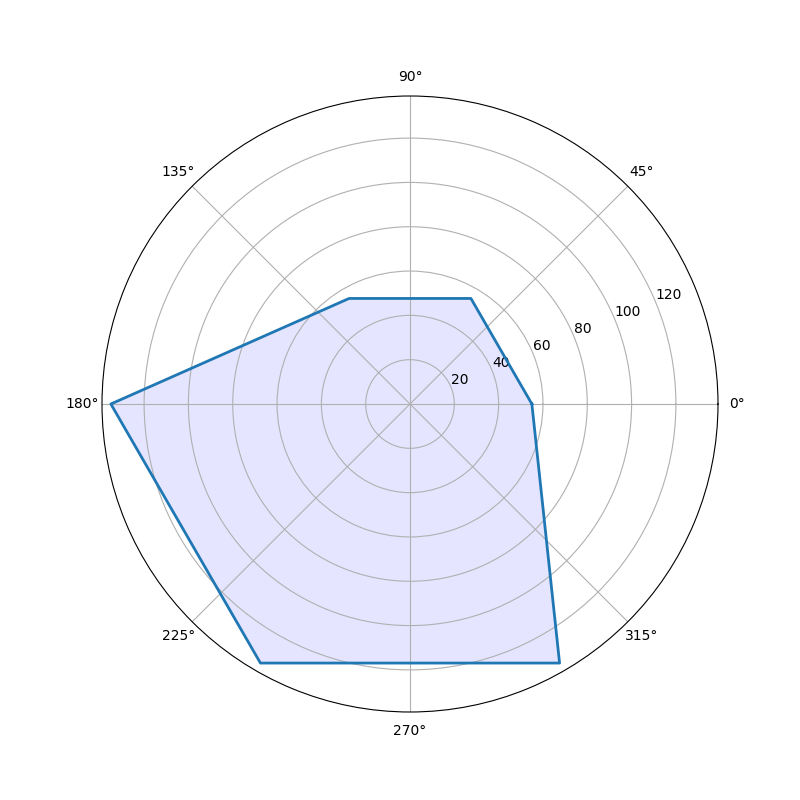
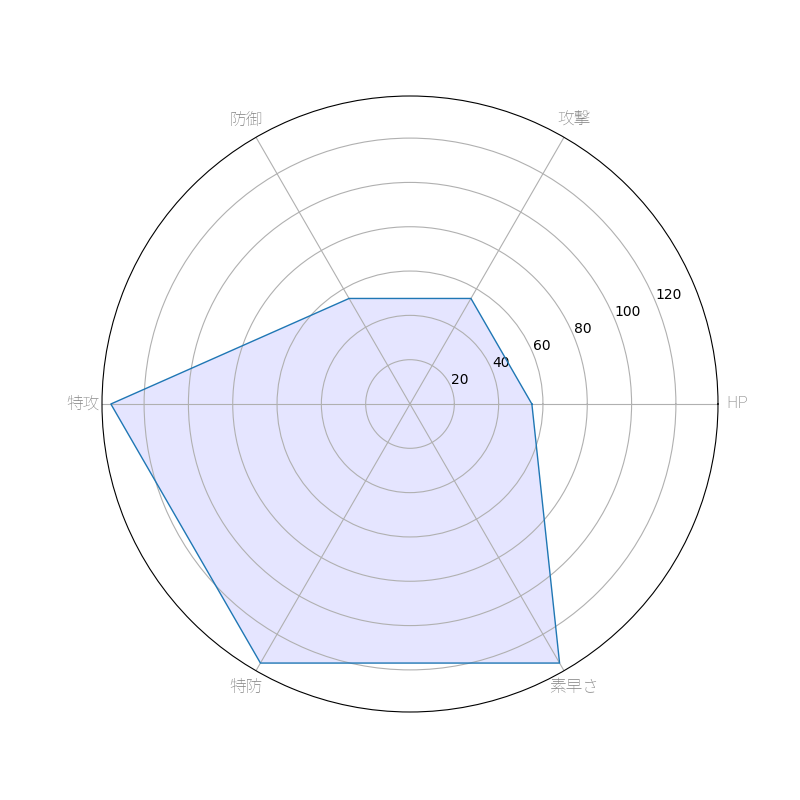
commit

diff --git a/main.py b/main.py
@@ -31,8 +31,12 @@ angle_list = [n / float(len(label_list)) * 2 * np.pi for n in range(len(label_li
 angle_list += angle_list[:1]
 
 fig, ax = plt.subplots(figsize=(8, 8), subplot_kw=dict(polar=True))
+plt.xticks(
+    angle_list[:-1], label_list, color="grey", size=12, fontname="Source Han Code JP"
+)  # fontnameはご自由にどうぞ
 
-ax.plot(angle_list, value_list, linewidth=2, linestyle="solid")
-ax.fill(angle_list, value_list, "b", alpha=0.1)
+ax.plot(angle_list, value_list, linewidth=1, linestyle="solid")
+ax.fill(angle_list, value_list, "blue", alpha=0.1)
+
 
 plt.savefig("chart.png")
